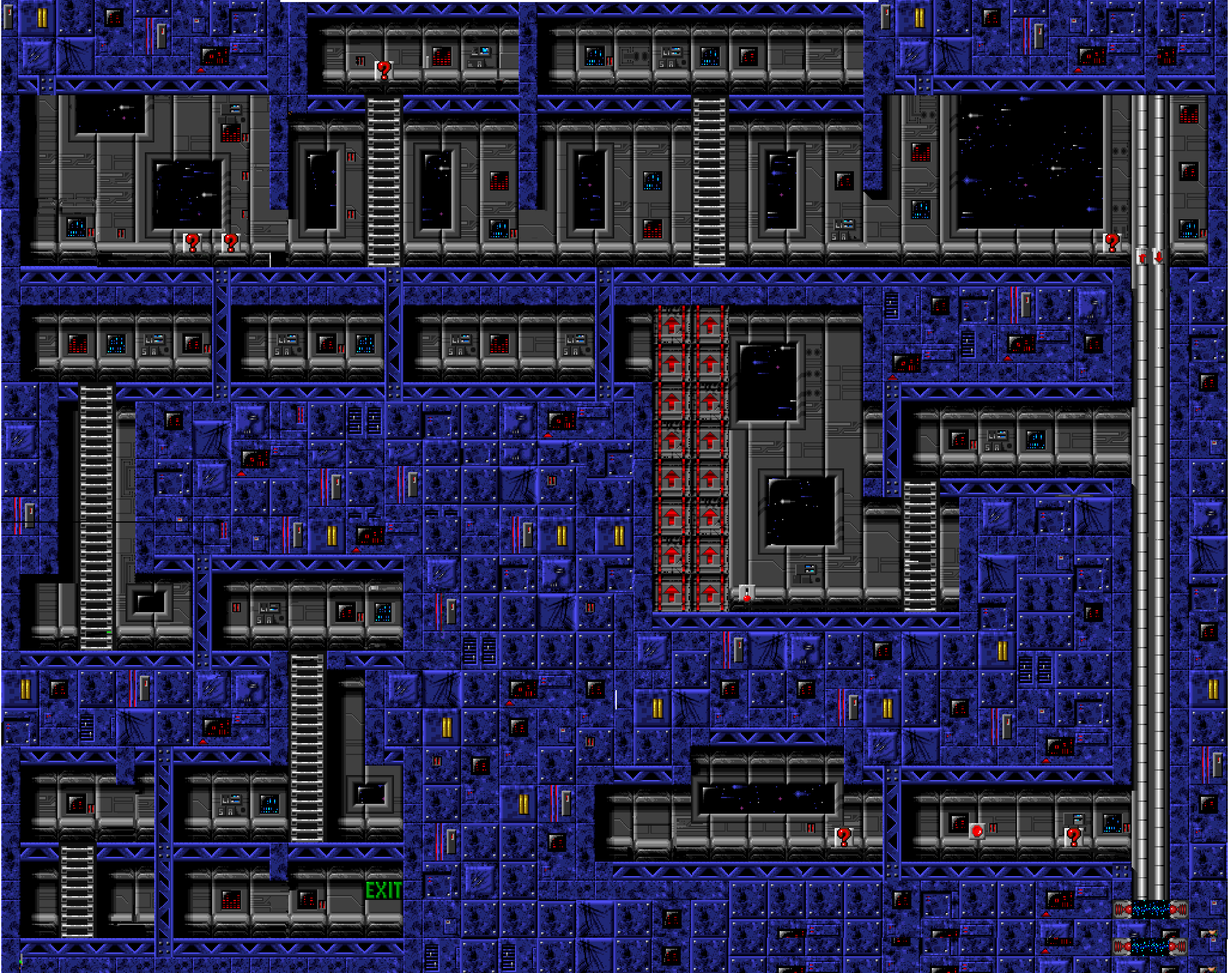
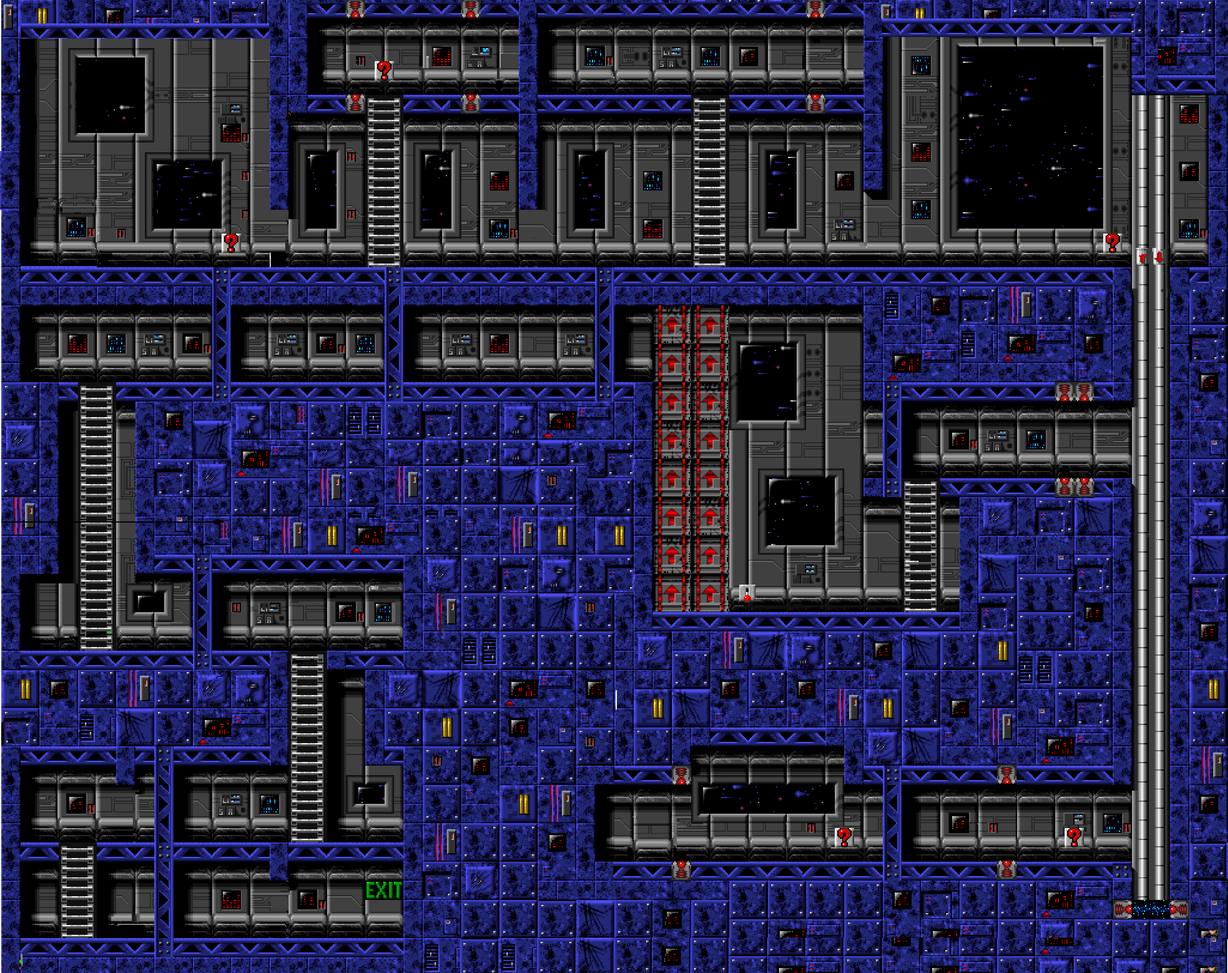
검빨 가로 빤짝이 프레임 이미지 입힘

diff --git a/Camera.cpp b/Camera.cpp
@@ -38,9 +38,9 @@ void Camera::UpdateMatrix()
 {
 	_matrix = Matrix3x2F::Identity();
 //	_matrix = _matrix * Matrix3x2F::Scale(SizeF(_scale.x, _scale.y));
-	//Matrix3x3 scaleMatrix = Matrix3x3(0.3f, 0, 0, 0, 0.3f, 0, 0, 0, 1);
-	//scaleMatrix.To_D2D1_Matrix_3x2_F() *
-	_matrix = _matrix*  Matrix3x2F::Translation(-_pos.x,-_pos.y);
+	Matrix3x3 scaleMatrix = Matrix3x3(0.3f, 0, 0, 0, 0.3f, 0, 0, 0, 1);
+	
+	_matrix = _matrix* scaleMatrix.To_D2D1_Matrix_3x2_F() * Matrix3x2F::Translation(-_pos.x,-_pos.y);
 
 }
 

diff --git a/UIManager.h b/UIManager.h
@@ -3,6 +3,9 @@
 class UIManager
 {
 private:
+	int curFrameX4;
+	int curFrameX6;
+	int count;
 	vector<Wall*> _vWalls;
 	Object *p;
 public:
@@ -12,5 +15,7 @@ public:
 	void Release();
 	void Update();
 	void Render();
+	void frame();
+	void DrawTwinkle();
 };
 
